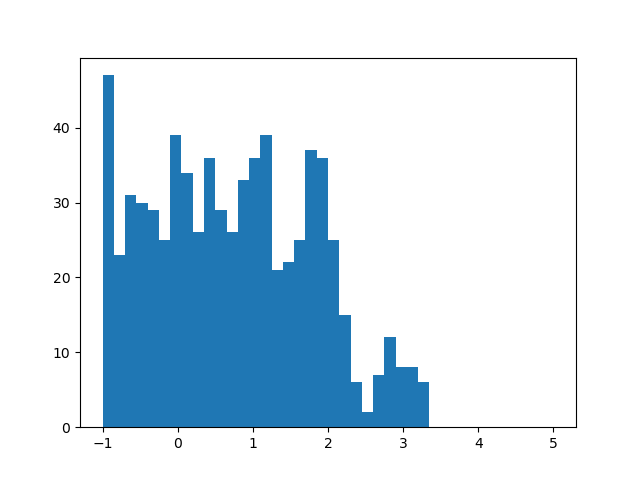
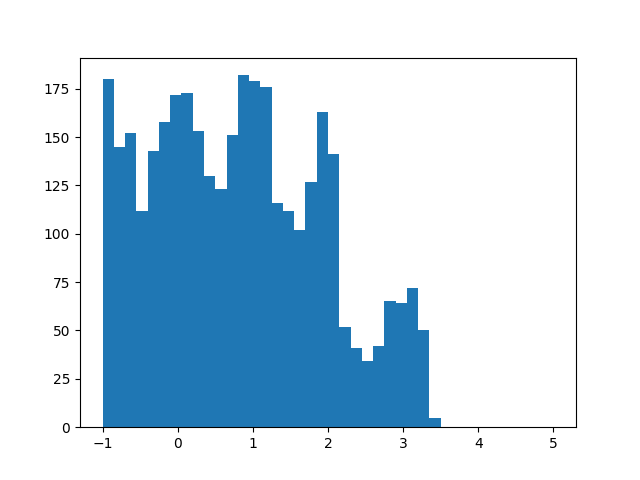
generic commit

diff --git a/scripts/transport/c_transport.py b/scripts/transport/c_transport.py
@@ -184,6 +184,13 @@ class CondTransportKernel(nn.Module):
         target = self.Y_test
         map_vec = self.map(x_mu, y_eta)
 
+        slice_map_vec = self.map(0 * x_mu, y_eta)
+        slice_plot_vec = slice_map_vec.detach().cpu().numpy()
+        x, y = slice_plot_vec.T
+        plt.hist(y, bins=60, range=[-3,3])
+        plt.savefig('slice_hist.png')
+        clear_plt()
+
         range = [[-3, 3], [-3, 3]]
         x_left, x_right = range[0]
         y_bottom, y_top = range[1]
